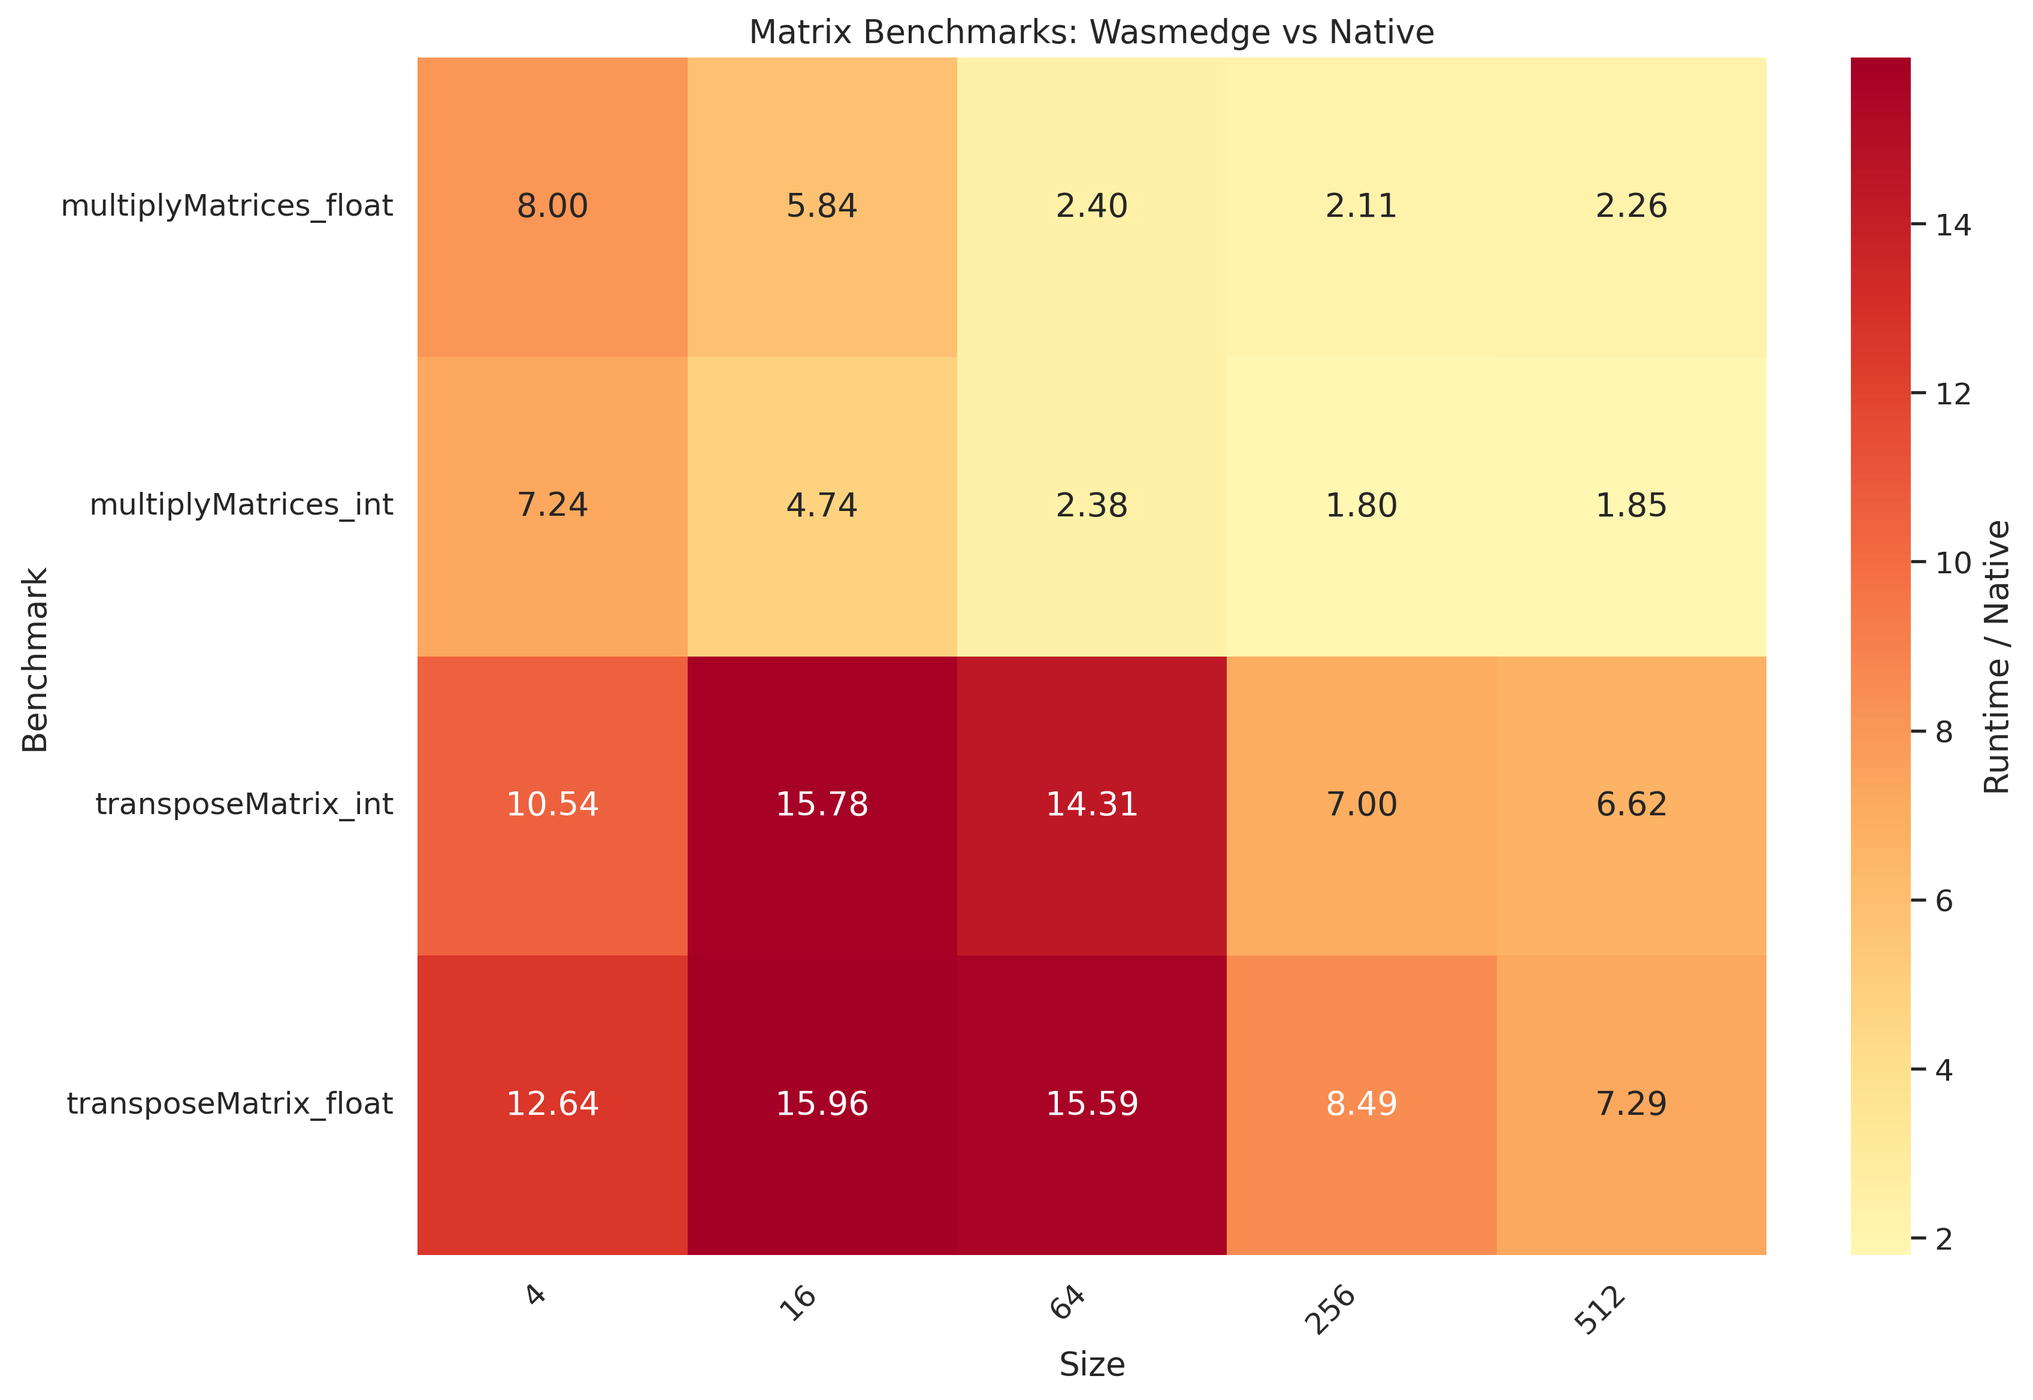
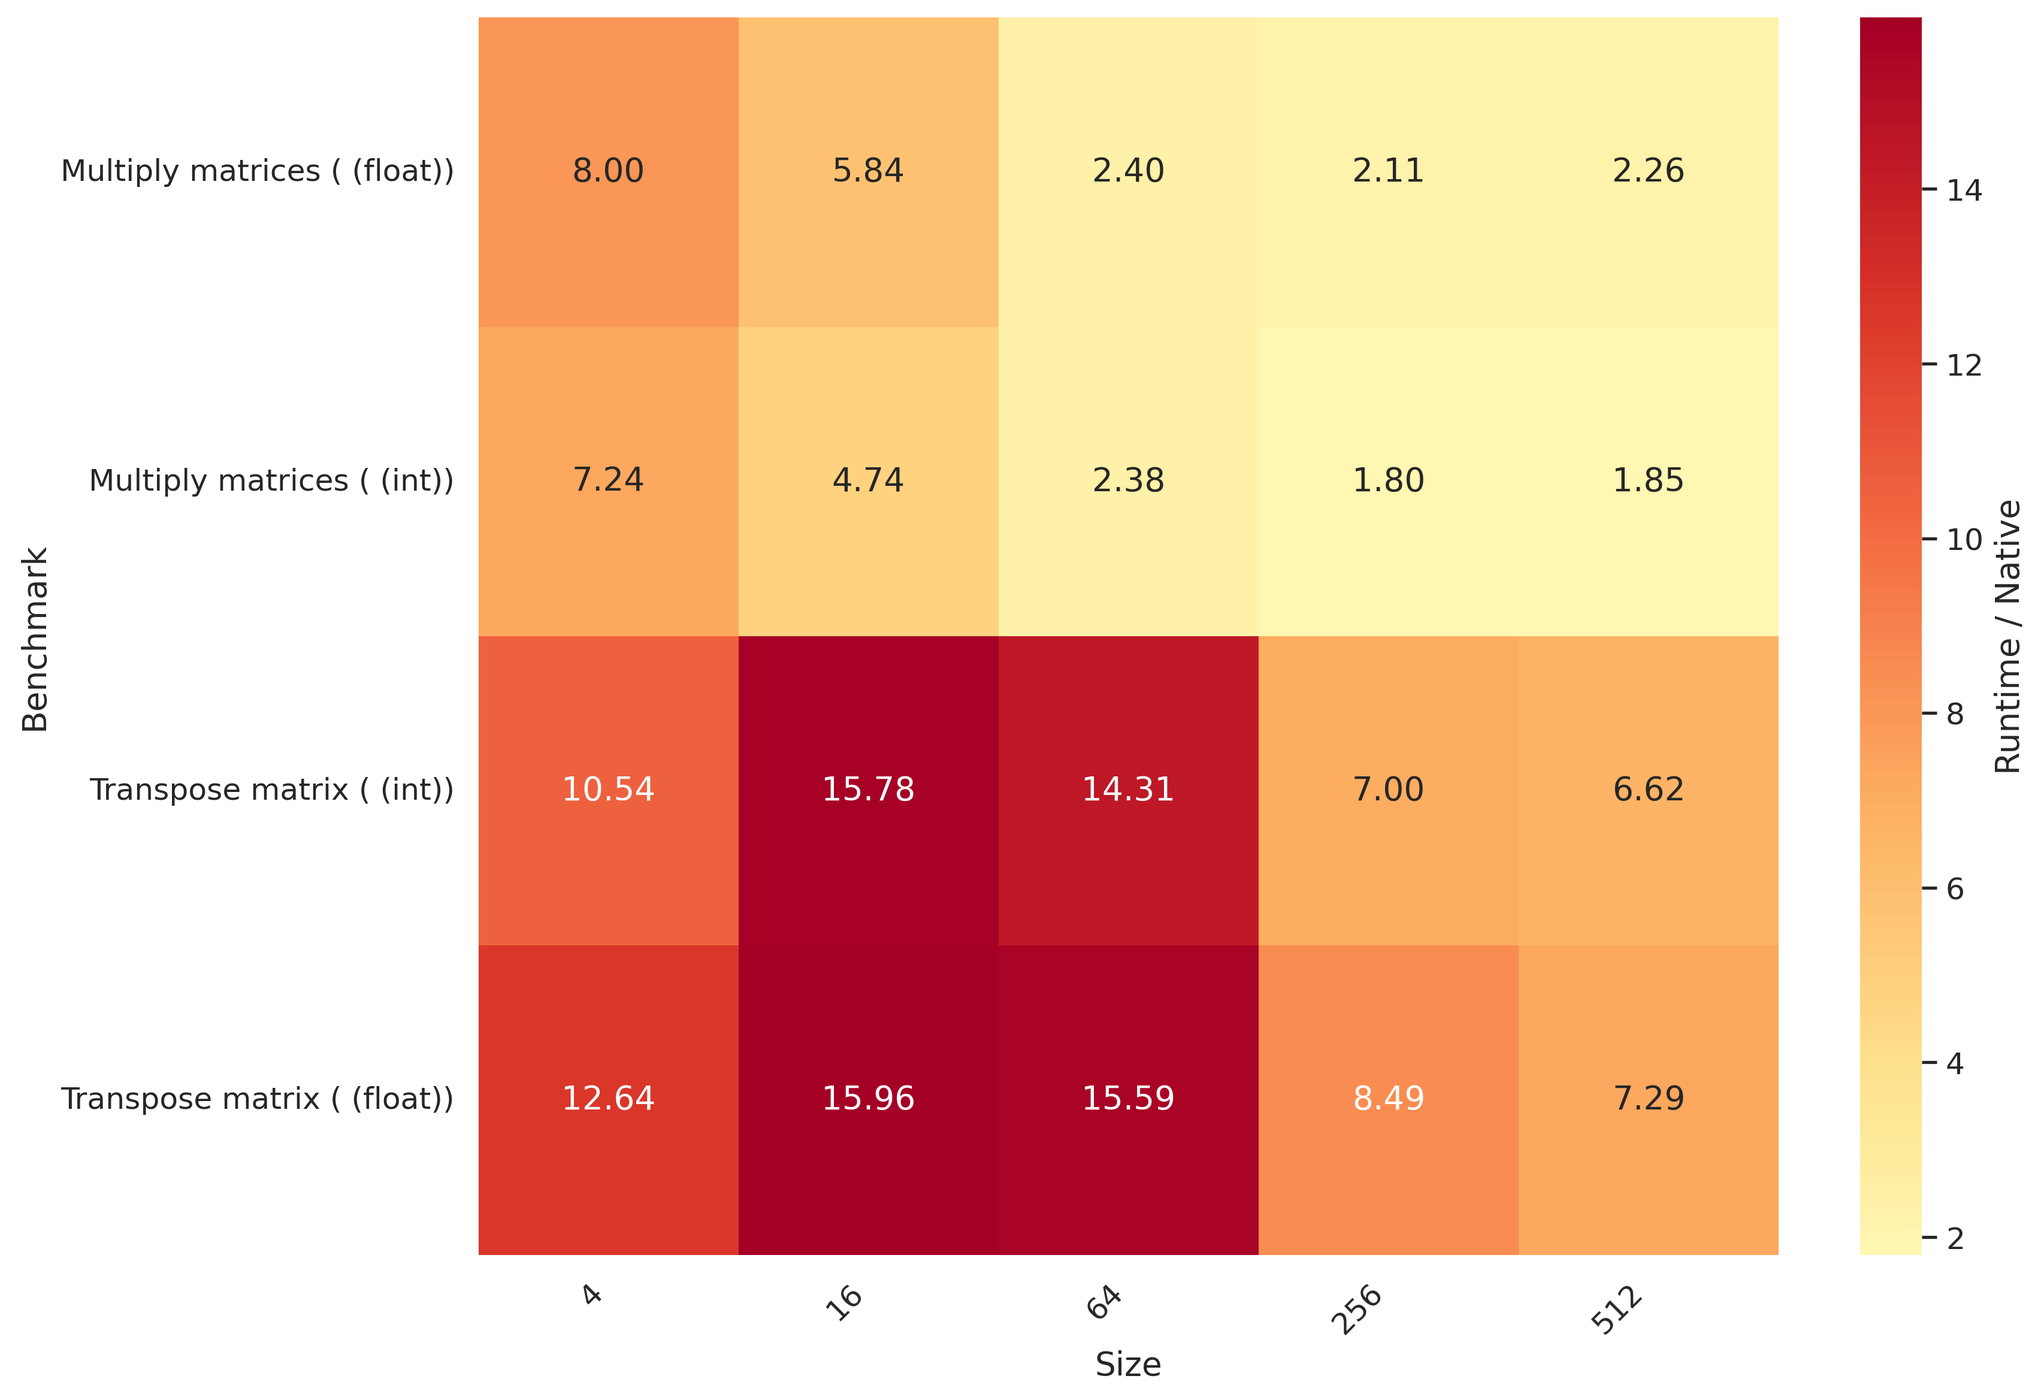
In between

diff --git a/simd_scaling_comparison_table.tex b/simd_scaling_comparison_table.tex
@@ -2,70 +2,70 @@
 \toprule
     & Benchmark              &   Size &   Native &   Wasmedge &   Wasmer &   Wasmtime \\
 \midrule
-  0 & averageVector\_float    &     16 &   1.00 &     1.00 &   1.00 &     1.00 \\
-  1 & averageVector\_float    &    256 &   0.72 &     0.72 &   0.58 &     0.66 \\
-  2 & averageVector\_float    &   4096 &   0.86 &     0.80 &   0.72 &     0.76 \\
-  3 & averageVector\_float    &  65536 &   0.84 &     0.87 &   0.77 &     0.83 \\
-  4 & averageVector\_float    & 262144 &   0.88 &     0.89 &   0.80 &     0.85 \\
-  5 & averageVector\_int      &     16 &   1.00 &     1.00 &   1.00 &     1.00 \\
-  6 & averageVector\_int      &    256 &   0.74 &     0.57 &   0.61 &     0.66 \\
-  7 & averageVector\_int      &   4096 &   0.87 &     0.73 &   0.70 &     0.76 \\
-  8 & averageVector\_int      &  65536 &   0.87 &     0.81 &   0.78 &     0.82 \\
-  9 & averageVector\_int      & 262144 &   0.88 &     0.83 &   0.81 &     0.85 \\
+  0 & Vector: average (float)    &     16 &   1.00 &     1.00 &   1.00 &     1.00 \\
+  1 & Vector: average (float)    &    256 &   0.72 &     0.72 &   0.58 &     0.66 \\
+  2 & Vector: average (float)    &   4096 &   0.86 &     0.80 &   0.72 &     0.76 \\
+  3 & Vector: average (float)    &  65536 &   0.84 &     0.87 &   0.77 &     0.83 \\
+  4 & Vector: average (float)    & 262144 &   0.88 &     0.89 &   0.80 &     0.85 \\
+  5 & Vector: average (int)      &     16 &   1.00 &     1.00 &   1.00 &     1.00 \\
+  6 & Vector: average (int)      &    256 &   0.74 &     0.57 &   0.61 &     0.66 \\
+  7 & Vector: average (int)      &   4096 &   0.87 &     0.73 &   0.70 &     0.76 \\
+  8 & Vector: average (int)      &  65536 &   0.87 &     0.81 &   0.78 &     0.82 \\
+  9 & Vector: average (int)      & 262144 &   0.88 &     0.83 &   0.81 &     0.85 \\
  10 & mandelbrot             &     16 &   1.00 &     1.00 &   1.00 &     1.00 \\
  11 & mandelbrot             &     64 &   0.75 &     0.74 &   0.65 &     0.69 \\
  12 & mandelbrot             &    256 &   0.81 &     0.80 &   0.72 &     0.75 \\
  13 & mandelbrot             &   1024 &   0.85 &     0.85 &   0.80 &     0.80 \\
  14 & mandelbrot             &   4096 &   0.88 &     0.88 &   0.83 &     0.84 \\
- 15 & multiplyMatrices\_float &      4 &   1.00 &     1.00 &   1.00 &     1.00 \\
- 16 & multiplyMatrices\_float &     16 &   1.41 &     1.20 &   0.87 &     1.10 \\
- 17 & multiplyMatrices\_float &     64 &   1.68 &     1.25 &   0.90 &     1.13 \\
- 18 & multiplyMatrices\_float &    256 &   1.80 &     1.44 &   1.15 &     1.32 \\
- 19 & multiplyMatrices\_float &    512 &   1.80 &     1.51 &   1.26 &     1.44 \\
- 20 & multiplyMatrices\_int   &      4 &   1.00 &     1.00 &   1.00 &     1.00 \\
- 21 & multiplyMatrices\_int   &     16 &   1.45 &     1.18 &   0.89 &     0.96 \\
- 22 & multiplyMatrices\_int   &     64 &   1.68 &     1.27 &   0.90 &     1.06 \\
- 23 & multiplyMatrices\_int   &    256 &   1.80 &     1.43 &   1.12 &     1.31 \\
- 24 & multiplyMatrices\_int   &    512 &   1.82 &     1.50 &   1.24 &     1.47 \\
- 25 & normalizeVector\_float  &     16 &   1.00 &     1.00 &   1.00 &     1.00 \\
- 26 & normalizeVector\_float  &    256 &   0.75 &     0.91 &   0.69 &     0.85 \\
- 27 & normalizeVector\_float  &   4096 &   0.85 &     0.91 &   0.82 &     0.91 \\
- 28 & normalizeVector\_float  &  65536 &   0.86 &     0.94 &   0.85 &     0.94 \\
- 29 & normalizeVector\_float  & 262144 &   0.88 &     0.95 &   0.87 &     0.94 \\
- 30 & normalizeVector\_int    &     16 &   1.00 &     1.00 &   1.00 &     1.00 \\
- 31 & normalizeVector\_int    &    256 &   0.84 &     0.83 &   0.83 &     0.79 \\
- 32 & normalizeVector\_int    &   4096 &   0.90 &     0.88 &   0.87 &     0.88 \\
- 33 & normalizeVector\_int    &  65536 &   0.88 &     0.93 &   0.91 &     0.91 \\
- 34 & normalizeVector\_int    & 262144 &   0.91 &     0.93 &   0.92 &     0.92 \\
- 35 & transposeMatrix\_float  &      4 &   1.00 &     1.00 &   1.00 &     1.00 \\
- 36 & transposeMatrix\_float  &     16 &   0.64 &     0.72 &   0.63 &     0.70 \\
- 37 & transposeMatrix\_float  &     64 &   0.78 &     0.82 &   0.77 &     0.82 \\
- 38 & transposeMatrix\_float  &    256 &   0.84 &     0.79 &   0.70 &     0.79 \\
- 39 & transposeMatrix\_float  &    512 &   0.87 &     0.80 &   0.74 &     0.83 \\
- 40 & transposeMatrix\_int    &      4 &   1.00 &     1.00 &   1.00 &     1.00 \\
- 41 & transposeMatrix\_int    &     16 &   0.67 &     0.81 &   0.58 &     0.69 \\
- 42 & transposeMatrix\_int    &     64 &   0.79 &     0.85 &   0.71 &     0.83 \\
- 43 & transposeMatrix\_int    &    256 &   0.86 &     0.80 &   0.73 &     0.80 \\
- 44 & transposeMatrix\_int    &    512 &   0.88 &     0.83 &   0.76 &     0.83 \\
- 45 & vectorAddition\_float   &     16 &   1.00 &     1.00 &   1.00 &     1.00 \\
- 46 & vectorAddition\_float   &    256 &   0.82 &     0.94 &   0.84 &     0.86 \\
- 47 & vectorAddition\_float   &   4096 &   0.89 &     0.91 &   0.91 &     0.92 \\
- 48 & vectorAddition\_float   &  65536 &   0.88 &     0.95 &   0.91 &     0.94 \\
- 49 & vectorAddition\_float   & 262144 &   0.91 &     0.95 &   0.92 &     0.95 \\
- 50 & vectorAddition\_int     &     16 &   1.00 &     1.00 &   1.00 &     1.00 \\
- 51 & vectorAddition\_int     &    256 &   0.84 &     0.75 &   0.83 &     0.84 \\
- 52 & vectorAddition\_int     &   4096 &   0.92 &     0.86 &   0.87 &     0.90 \\
- 53 & vectorAddition\_int     &  65536 &   0.90 &     0.92 &   0.91 &     0.93 \\
- 54 & vectorAddition\_int     & 262144 &   0.91 &     0.92 &   0.92 &     0.94 \\
- 55 & vectorDotProduct\_float &     16 &   1.00 &     1.00 &   1.00 &     1.00 \\
- 56 & vectorDotProduct\_float &    256 &   0.81 &     0.81 &   0.63 &     0.70 \\
- 57 & vectorDotProduct\_float &   4096 &   0.90 &     0.88 &   0.76 &     0.81 \\
- 58 & vectorDotProduct\_float &  65536 &   0.88 &     0.91 &   0.80 &     0.87 \\
- 59 & vectorDotProduct\_float & 262144 &   0.92 &     0.92 &   0.83 &     0.87 \\
- 60 & vectorDotProduct\_int   &     16 &   1.00 &     1.00 &   1.00 &     1.00 \\
- 61 & vectorDotProduct\_int   &    256 &   0.83 &     0.72 &   0.67 &     0.70 \\
- 62 & vectorDotProduct\_int   &   4096 &   0.95 &     0.85 &   0.74 &     0.81 \\
- 63 & vectorDotProduct\_int   &  65536 &   0.92 &     0.89 &   0.82 &     0.84 \\
- 64 & vectorDotProduct\_int   & 262144 &   0.93 &     0.90 &   0.84 &     0.86 \\
+ 15 & Matrix: Multiplication (float) &      4 &   1.00 &     1.00 &   1.00 &     1.00 \\
+ 16 & Matrix: Multiplication (float) &     16 &   1.41 &     1.20 &   0.87 &     1.10 \\
+ 17 & Matrix: Multiplication (float) &     64 &   1.68 &     1.25 &   0.90 &     1.13 \\
+ 18 & Matrix: Multiplication (float) &    256 &   1.80 &     1.44 &   1.15 &     1.32 \\
+ 19 & Matrix: Multiplication (float) &    512 &   1.80 &     1.51 &   1.26 &     1.44 \\
+ 20 & Matrix: Multiplication (int)   &      4 &   1.00 &     1.00 &   1.00 &     1.00 \\
+ 21 & Matrix: Multiplication (int)   &     16 &   1.45 &     1.18 &   0.89 &     0.96 \\
+ 22 & Matrix: Multiplication (int)   &     64 &   1.68 &     1.27 &   0.90 &     1.06 \\
+ 23 & Matrix: Multiplication (int)   &    256 &   1.80 &     1.43 &   1.12 &     1.31 \\
+ 24 & Matrix: Multiplication (int)   &    512 &   1.82 &     1.50 &   1.24 &     1.47 \\
+ 25 & Vector: Normalize (float)  &     16 &   1.00 &     1.00 &   1.00 &     1.00 \\
+ 26 & Vector: Normalize (float)  &    256 &   0.75 &     0.91 &   0.69 &     0.85 \\
+ 27 & Vector: Normalize (float)  &   4096 &   0.85 &     0.91 &   0.82 &     0.91 \\
+ 28 & Vector: Normalize (float)  &  65536 &   0.86 &     0.94 &   0.85 &     0.94 \\
+ 29 & Vector: Normalize (float)  & 262144 &   0.88 &     0.95 &   0.87 &     0.94 \\
+ 30 & Vector: Normalize (int)    &     16 &   1.00 &     1.00 &   1.00 &     1.00 \\
+ 31 & Vector: Normalize (int)    &    256 &   0.84 &     0.83 &   0.83 &     0.79 \\
+ 32 & Vector: Normalize (int)    &   4096 &   0.90 &     0.88 &   0.87 &     0.88 \\
+ 33 & Vector: Normalize (int)    &  65536 &   0.88 &     0.93 &   0.91 &     0.91 \\
+ 34 & Vector: Normalize (int)    & 262144 &   0.91 &     0.93 &   0.92 &     0.92 \\
+ 35 & Matrix: Transpose (float)  &      4 &   1.00 &     1.00 &   1.00 &     1.00 \\
+ 36 & Matrix: Transpose (float)  &     16 &   0.64 &     0.72 &   0.63 &     0.70 \\
+ 37 & Matrix: Transpose (float)  &     64 &   0.78 &     0.82 &   0.77 &     0.82 \\
+ 38 & Matrix: Transpose (float)  &    256 &   0.84 &     0.79 &   0.70 &     0.79 \\
+ 39 & Matrix: Transpose (float)  &    512 &   0.87 &     0.80 &   0.74 &     0.83 \\
+ 40 & Matrix: Transpose (int)    &      4 &   1.00 &     1.00 &   1.00 &     1.00 \\
+ 41 & Matrix: Transpose (int)    &     16 &   0.67 &     0.81 &   0.58 &     0.69 \\
+ 42 & Matrix: Transpose (int)    &     64 &   0.79 &     0.85 &   0.71 &     0.83 \\
+ 43 & Matrix: Transpose (int)    &    256 &   0.86 &     0.80 &   0.73 &     0.80 \\
+ 44 & Matrix: Transpose (int)    &    512 &   0.88 &     0.83 &   0.76 &     0.83 \\
+ 45 & Vector: Addition (float)   &     16 &   1.00 &     1.00 &   1.00 &     1.00 \\
+ 46 & Vector: Addition (float)   &    256 &   0.82 &     0.94 &   0.84 &     0.86 \\
+ 47 & Vector: Addition (float)   &   4096 &   0.89 &     0.91 &   0.91 &     0.92 \\
+ 48 & Vector: Addition (float)   &  65536 &   0.88 &     0.95 &   0.91 &     0.94 \\
+ 49 & Vector: Addition (float)   & 262144 &   0.91 &     0.95 &   0.92 &     0.95 \\
+ 50 & Vector: Addition (int)     &     16 &   1.00 &     1.00 &   1.00 &     1.00 \\
+ 51 & Vector: Addition (int)     &    256 &   0.84 &     0.75 &   0.83 &     0.84 \\
+ 52 & Vector: Addition (int)     &   4096 &   0.92 &     0.86 &   0.87 &     0.90 \\
+ 53 & Vector: Addition (int)     &  65536 &   0.90 &     0.92 &   0.91 &     0.93 \\
+ 54 & Vector: Addition (int)     & 262144 &   0.91 &     0.92 &   0.92 &     0.94 \\
+ 55 & Vector: DotProduct (float) &     16 &   1.00 &     1.00 &   1.00 &     1.00 \\
+ 56 & Vector: DotProduct (float) &    256 &   0.81 &     0.81 &   0.63 &     0.70 \\
+ 57 & Vector: DotProduct (float) &   4096 &   0.90 &     0.88 &   0.76 &     0.81 \\
+ 58 & Vector: DotProduct (float) &  65536 &   0.88 &     0.91 &   0.80 &     0.87 \\
+ 59 & Vector: DotProduct (float) & 262144 &   0.92 &     0.92 &   0.83 &     0.87 \\
+ 60 & Vector: DotProduct (int)   &     16 &   1.00 &     1.00 &   1.00 &     1.00 \\
+ 61 & Vector: DotProduct (int)   &    256 &   0.83 &     0.72 &   0.67 &     0.70 \\
+ 62 & Vector: DotProduct (int)   &   4096 &   0.95 &     0.85 &   0.74 &     0.81 \\
+ 63 & Vector: DotProduct (int)   &  65536 &   0.92 &     0.89 &   0.82 &     0.84 \\
+ 64 & Vector: DotProduct (int)   & 262144 &   0.93 &     0.90 &   0.84 &     0.86 \\
 \bottomrule
 \end{tabular}

diff --git a/analysis/convert_data.py b/analysis/convert_data.py
@@ -19,16 +19,14 @@ def process_benchmark(runtime, benchmark, size):
     return calculate_geometric_mean(data)
 
 def format_number(number):
-    if number < 0.01:
-        return f"{number:.6f}"
-    elif number < 1:
-        return f"{number:.4f}"
+    if number < 1:
+        return f"\\textbf{{{number:.4f}}}"
     elif number < 10:
         return f"{number:.2f}"
     else:
         return f"{number:.0f}"
 
-def generate_geometric_mean_table(runtimes, benchmark_categories):
+def generate_relative_geometric_mean_table(runtimes, benchmark_categories):
     table = []
     for category, (benchmarks, sizes) in benchmark_categories.items():
         for benchmark in benchmarks:
@@ -43,7 +41,7 @@ def generate_geometric_mean_table(runtimes, benchmark_categories):
                 continue
 
             native_geomean = calculate_geometric_mean(native_means)
-            row.append(format_number(native_geomean))
+            row.append("1")  # Native is always 1
 
             for runtime in runtimes[1:]:  # Skip 'Native'
                 runtime_means = []
@@ -57,7 +55,7 @@ def generate_geometric_mean_table(runtimes, benchmark_categories):
                 else:
                     runtime_geomean = calculate_geometric_mean(runtime_means)
                     ratio = runtime_geomean / native_geomean
-                    row.append(format_number(runtime_geomean))
+                    row.append(format_number(ratio))
 
             table.append(row)
 
@@ -85,7 +83,7 @@ benchmark_categories = {
     )
 }
 
-table = generate_geometric_mean_table(runtimes, benchmark_categories)
+table = generate_relative_geometric_mean_table(runtimes, benchmark_categories)
 
 # Define headers for the table
 headers = ["Algorithm", "Native", "Wasmtime", "Wasmer", "WasmEdge"]
@@ -97,7 +95,7 @@ latex_table = tabulate(table, headers=headers, tablefmt="latex_booktabs")
 print(latex_table)
 
 # Optionally, save the LaTeX table to a file
-with open("geometric_mean_comparison.tex", "w") as f:
-    f.write(latex_table)
+# with open("relative_geometric_mean_comparison.tex", "w") as f:
+#     f.write(latex_table)
 
-print("Geometric mean comparison table has been generated and saved as 'geometric_mean_comparison.tex'.")
+# print("Relative geometric mean comparison table has been generated and saved as 'relative_geometric_mean_comparison.tex'.")

diff --git a/analysis/plot.py b/analysis/plot.py
@@ -30,7 +30,7 @@ mandelbrot_benchmarks = ["mandelbrot"]
 
 def read_csv(file_path):
     with open(file_path, 'r') as f:
-        return [int(x) for x in f.read().strip().split(',')]
+        return [int(x) for x in f.read().strip().split(',')[1:]]
 
 def calculate_metrics(data):
     mean = np.mean(data)
@@ -93,21 +93,20 @@ def get_title(benchmark):
     return title
 
 def get_x_label(benchmark):
-	if benchmark in vector_benchmarks:
-		return "Vector Size"
-	elif benchmark in matrix_benchmarks:
-		return "Matrix Size (n x n)"
-	elif benchmark in mandelbrot_benchmarks:
-		return "Max iterations"
+    if benchmark in vector_benchmarks:
+        return "Vector Size"
+    elif benchmark in matrix_benchmarks:
+        return "Matrix Size (n x n)"
+    elif benchmark in mandelbrot_benchmarks:
+        return "Max iterations"
 
 for benchmark in benchmarks:
     sizes = get_sizes_for_benchmark(benchmark)
     plt.figure(figsize=(12, 6))
 
-	# title example
-	# Comparison normalize vector (int) performance across runtimes
-	# x-axis: Vector Size
-	# y-axis: Execution Time (nano seconds)
+
+    # increase text size
+    plt.rc('font', size=18)
 
     for runtime in runtimes:
         runtime_data = [results[runtime][benchmark][size]['mean'] for size in sizes if size in results[runtime][benchmark]]
@@ -115,8 +114,12 @@ for benchmark in benchmarks:
 
     plt.xlabel(get_x_label(benchmark))
     plt.ylabel('Execution Time (nano seconds)')
-    plt.title(get_title(benchmark))
+    # plt.title(get_title(benchmark))
+
     plt.xscale('log', base=2)  # Use log scale for x-axis as sizes often vary by orders of magnitude
+    # plt.xscale('linear')
+    plt.xticks(sizes, labels=sizes)
+
     plt.yscale('log', base=2)  # Use log scale for y-axis as execution times often vary by orders of magnitude
     plt.legend()
     plt.grid(True, which="both", ls="-", alpha=0.2)

diff --git a/analysis/heatmaps.py b/analysis/heatmaps.py
@@ -2,7 +2,7 @@ import pandas as pd
 import numpy as np
 import matplotlib.pyplot as plt
 import seaborn as sns
-import os
+import os, re
 
 def read_csv(file_path):
     df = pd.read_csv(file_path, header=None, usecols=range(1, 50))
@@ -10,6 +10,27 @@ def read_csv(file_path):
 
 def calculate_mean(data):
     return np.mean(data)
+
+def get_title(benchmark):
+    # example input: normalizeVector_int
+    # example title: Comparison normalize vector (int) performance across runtimes
+
+    # Split the benchmark string by underscore
+    parts = benchmark.split('_')
+
+    # Convert camelCase to space-separated words for the first part
+    operation = ' '.join(re.findall(r'[A-Z]?[a-z]+|[A-Z]+(?=[A-Z][a-z]|\d|\W|$)|\d+', parts[0]))
+
+    # Capitalize the first letter of the operation
+    operation = operation.capitalize()
+
+    # Get the data type (if present)
+    data_type = f" ({parts[1]})" if len(parts) > 1 else ""
+
+    # Construct the title
+    title = f"{operation} ({data_type})"
+
+    return title
 
 def process_benchmark(runtime, benchmark, size):
     file_path = f"Results/{runtime}/{benchmark}_{size}.csv"
@@ -45,12 +66,15 @@ def create_heatmap(data, runtime, benchmarks, sizes, category):
                      xticklabels=sizes, yticklabels=benchmarks, cbar_kws={'label': 'Runtime / Native'})
 
     # Customize the plot
-    plt.title(f"{category} Benchmarks: {runtime} vs Native")
+    # plt.title(f"{category} Benchmarks: {runtime} vs Native")
     plt.xlabel("Size")
     plt.ylabel("Benchmark")
 
     # Rotate x-axis labels for better readability
     plt.xticks(rotation=45, ha='right')
+
+    # y labels should be get_title(benchmark)
+    ax.set_yticklabels([get_title(benchmark) for benchmark in benchmarks], rotation=0)
 
     # Adjust layout and save
     plt.tight_layout()

diff --git a/analysis/dist.py b/analysis/dist.py
@@ -38,7 +38,7 @@ def get_sizes_for_benchmark(benchmark):
 
 def read_csv(file_path):
     with open(file_path, 'r') as f:
-        return [int(x) for x in f.read().strip().split(',')]
+        return [int(x) for x in f.read().strip().split(',')[1:]]
 
 # def create_distribution_plot(benchmark, size, data):
 #     plt.figure(figsize=(12, 6))
